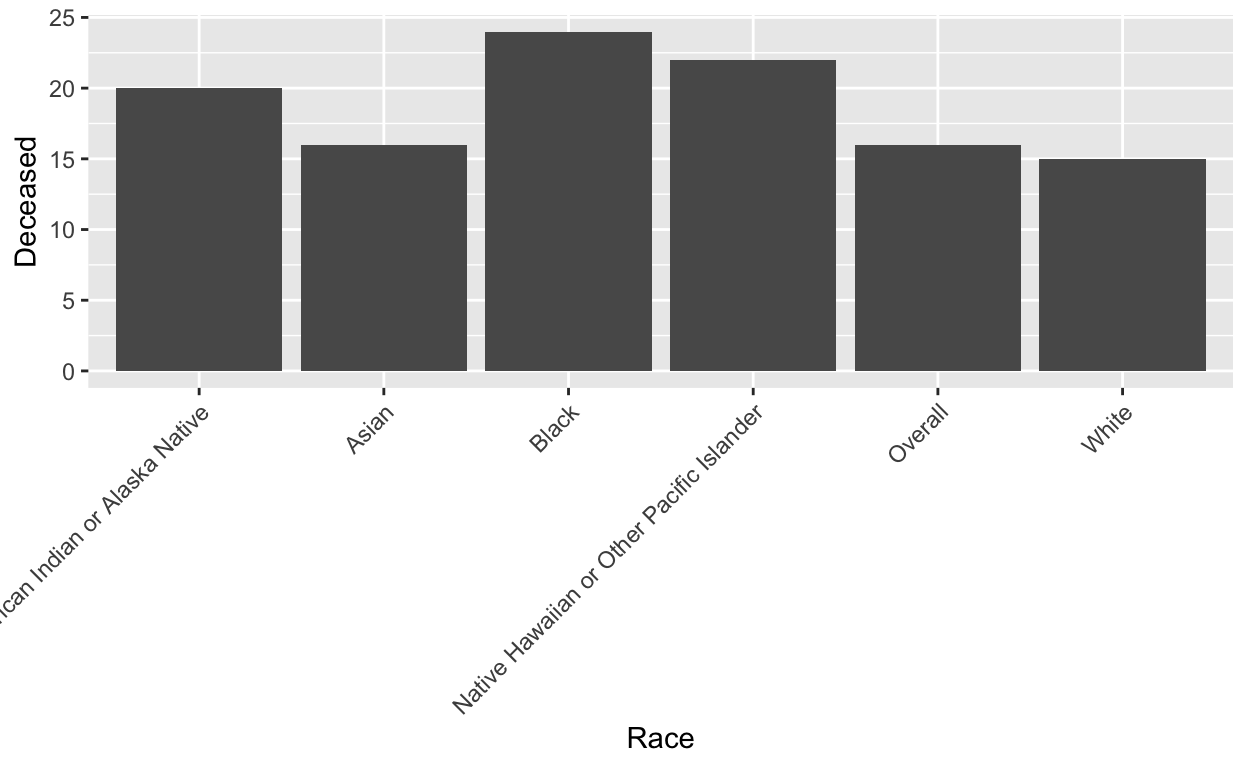
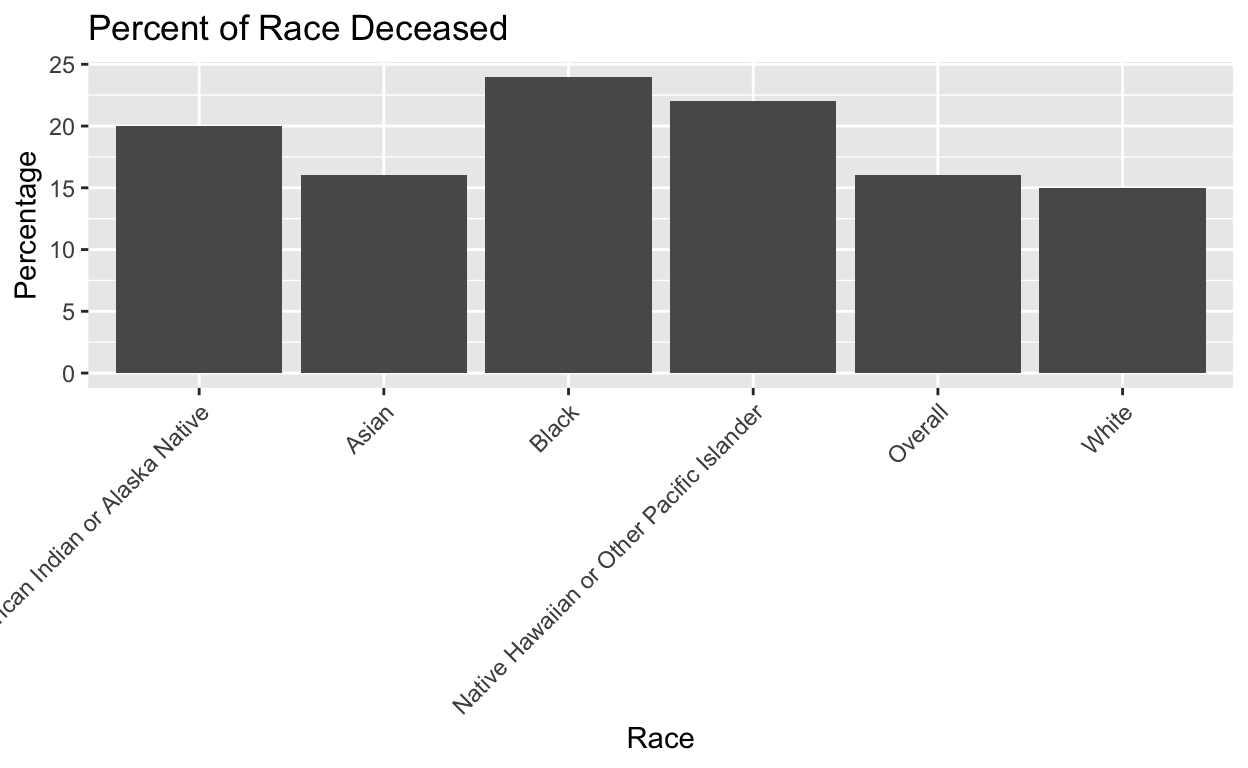
12/14 12:18am

diff --git a/index.html b/index.html
@@ -1546,7 +1546,7 @@ code span.wa { color: #5e5e5e; font-style: italic; } /* Warning */
 <h2 id="introduction">Introduction</h2>
 <p>Race is a complicated issue in the U.S., one that is influenced by a multitude of different factors. Systemic injustices that go back to before the founding of this country continue to influence daily life for people today. Injustices such as slavery, police brutality, Jim Crow laws, redlining, forced indigenous relocation, Japanese internment, colonialism in general and much, much more have a strong power that proves that these horrible acts and events are not simply in the past. In this analysis, a variety of factors will be analyzed to ascertain trends relating to cancer and race. The research question of interest here is how the mortality rate of cancer differs across racial groups. As a hypothesis, it is expected that mortality rates will be higher among those that are nonwhite. A correlation between race and income groups, with nonwhite people having a higher proportion of individuals receiving lower levels of income (to be specified later) as compared to white people, is also expected, as are higher rates of lower education, a lack of insurance, and late-stage diagnoses among nonwhites. This analysis aims to determine shared trends between all of these factors, which are all firmly tied to the history of racism in this country. The information being studied here is important because, upon discerning how mortality rates, and therefore healthcare disparities, are distributed across demographic groups, governments and organizations can more effectively create initiatives to correct these disparities by providing essential healthcare services to those who need it.</p>
 <h2 id="data">Data</h2>
-<p>The following data comes from the paper “Racial Disparities in Cancer Stage at Diagnosis and Survival for Adolescents and Young Adults” by Taparra, Kekumano, et al., published in the National Library of Medicine (<a href="https://pmc.ncbi.nlm.nih.gov/articles/PMC11365006/" class="uri">https://pmc.ncbi.nlm.nih.gov/articles/PMC11365006/</a>) on August 30, 2024. The research question in this study aligns well with the goals of this analysis, as the researchers wanted to understand any relationship between race and two variables: 1) cancer stage at diagnosis and 2) mortality rate. Because of this, the data is very useful in answering the research question being posed here. The data was collected retrospectively from a hospital-based oncology database, which included adolescent and young adult (ages 15-39) patients from all over the U.S., with the goal of creating a statistical analysis, selecting those who received a diagnosis between January 1, 2004 and December 31, 2017.</p>
+<p>The following cross-sectional data comes from the paper “Racial Disparities in Cancer Stage at Diagnosis and Survival for Adolescents and Young Adults” by Taparra, Kekumano, et al., published in the National Library of Medicine (<a href="https://pmc.ncbi.nlm.nih.gov/articles/PMC11365006/" class="uri">https://pmc.ncbi.nlm.nih.gov/articles/PMC11365006/</a>) on August 30, 2024. The research question in this study aligns well with the goals of this analysis, as the researchers wanted to understand any relationship between race and two variables: 1) cancer stage at diagnosis and 2) mortality rate. Because of this, the data is very useful in answering the research question being posed here. The data was collected retrospectively from a hospital-based oncology database, which included adolescent and young adult (ages 15-39) patients from all over the U.S., with the goal of creating a statistical analysis, selecting those who received a diagnosis between January 1, 2004 and December 31, 2017.</p>
 <p>Loading the data sets and packages:</p>
 <div class="layout-chunk" data-layout="l-body">
 <div class="sourceCode">
@@ -1634,7 +1634,8 @@ code span.wa { color: #5e5e5e; font-style: italic; } /* Warning */
 <pre class="sourceCode r"><code class="sourceCode r"><span><span class='va'>finaldata</span> <span class='op'>|&gt;</span></span>
 <span>  <span class='fu'><a href='https://ggplot2.tidyverse.org/reference/ggplot.html'>ggplot</a></span><span class='op'>(</span><span class='fu'><a href='https://ggplot2.tidyverse.org/reference/aes.html'>aes</a></span><span class='op'>(</span>x <span class='op'>=</span> <span class='va'>Race</span>, y <span class='op'>=</span> <span class='va'>`Medicaid or Medicare`</span><span class='op'>)</span><span class='op'>)</span> <span class='op'>+</span></span>
 <span>  <span class='fu'><a href='https://ggplot2.tidyverse.org/reference/geom_bar.html'>geom_bar</a></span><span class='op'>(</span>stat <span class='op'>=</span> <span class='st'>"identity"</span><span class='op'>)</span> <span class='op'>+</span></span>
-<span>  <span class='fu'><a href='https://ggplot2.tidyverse.org/reference/theme.html'>theme</a></span><span class='op'>(</span>axis.text.x <span class='op'>=</span> <span class='fu'><a href='https://ggplot2.tidyverse.org/reference/element.html'>element_text</a></span><span class='op'>(</span>angle <span class='op'>=</span> <span class='fl'>45</span>, hjust <span class='op'>=</span> <span class='fl'>1</span><span class='op'>)</span><span class='op'>)</span></span></code></pre>
+<span>  <span class='fu'><a href='https://ggplot2.tidyverse.org/reference/theme.html'>theme</a></span><span class='op'>(</span>axis.text.x <span class='op'>=</span> <span class='fu'><a href='https://ggplot2.tidyverse.org/reference/element.html'>element_text</a></span><span class='op'>(</span>angle <span class='op'>=</span> <span class='fl'>45</span>, hjust <span class='op'>=</span> <span class='fl'>1</span><span class='op'>)</span><span class='op'>)</span> <span class='op'>+</span></span>
+<span>  <span class='fu'><a href='https://ggplot2.tidyverse.org/reference/labs.html'>labs</a></span><span class='op'>(</span>title <span class='op'>=</span> <span class='st'>"Public Insurance Popularity by Race (Amount)"</span>, y <span class='op'>=</span> <span class='st'>"Medicaid or Medicare (Amount)"</span><span class='op'>)</span></span></code></pre>
 </div>
 <p><img src="index_files/figure-html5/unnamed-chunk-3-1.png" width="624" /></p>
 </div>
@@ -1644,7 +1645,8 @@ code span.wa { color: #5e5e5e; font-style: italic; } /* Warning */
 <pre class="sourceCode r"><code class="sourceCode r"><span><span class='va'>finaldataperc</span> <span class='op'>|&gt;</span></span>
 <span>  <span class='fu'><a href='https://ggplot2.tidyverse.org/reference/ggplot.html'>ggplot</a></span><span class='op'>(</span><span class='fu'><a href='https://ggplot2.tidyverse.org/reference/aes.html'>aes</a></span><span class='op'>(</span>x <span class='op'>=</span> <span class='va'>Race</span>, y <span class='op'>=</span> <span class='va'>`Medicaid or Medicare`</span><span class='op'>)</span><span class='op'>)</span> <span class='op'>+</span></span>
 <span>  <span class='fu'><a href='https://ggplot2.tidyverse.org/reference/geom_bar.html'>geom_bar</a></span><span class='op'>(</span>stat <span class='op'>=</span> <span class='st'>"identity"</span><span class='op'>)</span> <span class='op'>+</span></span>
-<span>  <span class='fu'><a href='https://ggplot2.tidyverse.org/reference/theme.html'>theme</a></span><span class='op'>(</span>axis.text.x <span class='op'>=</span> <span class='fu'><a href='https://ggplot2.tidyverse.org/reference/element.html'>element_text</a></span><span class='op'>(</span>angle <span class='op'>=</span> <span class='fl'>45</span>, hjust <span class='op'>=</span> <span class='fl'>1</span><span class='op'>)</span><span class='op'>)</span></span></code></pre>
+<span>  <span class='fu'><a href='https://ggplot2.tidyverse.org/reference/theme.html'>theme</a></span><span class='op'>(</span>axis.text.x <span class='op'>=</span> <span class='fu'><a href='https://ggplot2.tidyverse.org/reference/element.html'>element_text</a></span><span class='op'>(</span>angle <span class='op'>=</span> <span class='fl'>45</span>, hjust <span class='op'>=</span> <span class='fl'>1</span><span class='op'>)</span><span class='op'>)</span> <span class='op'>+</span></span>
+<span>  <span class='fu'><a href='https://ggplot2.tidyverse.org/reference/labs.html'>labs</a></span><span class='op'>(</span>title <span class='op'>=</span> <span class='st'>"Public Insurance Popularity by Race (%)"</span>, y <span class='op'>=</span> <span class='st'>"Medicaid or Medicare (Percent)"</span><span class='op'>)</span></span></code></pre>
 </div>
 <p><img src="index_files/figure-html5/unnamed-chunk-4-1.png" width="624" /></p>
 </div>
@@ -1733,7 +1735,8 @@ code span.wa { color: #5e5e5e; font-style: italic; } /* Warning */
 <pre class="sourceCode r"><code class="sourceCode r"><span><span class='va'>deceased_graph</span> <span class='op'>&lt;-</span> <span class='va'>finaldataperc</span> <span class='op'>|&gt;</span></span>
 <span>  <span class='fu'><a href='https://ggplot2.tidyverse.org/reference/ggplot.html'>ggplot</a></span><span class='op'>(</span><span class='fu'><a href='https://ggplot2.tidyverse.org/reference/aes.html'>aes</a></span><span class='op'>(</span>x <span class='op'>=</span> <span class='va'>Race</span>, y <span class='op'>=</span> <span class='va'>Deceased</span><span class='op'>)</span><span class='op'>)</span> <span class='op'>+</span> </span>
 <span>  <span class='fu'><a href='https://ggplot2.tidyverse.org/reference/geom_bar.html'>geom_bar</a></span><span class='op'>(</span>stat <span class='op'>=</span> <span class='st'>"identity"</span><span class='op'>)</span> <span class='op'>+</span></span>
-<span>  <span class='fu'><a href='https://ggplot2.tidyverse.org/reference/theme.html'>theme</a></span><span class='op'>(</span>axis.text.x <span class='op'>=</span> <span class='fu'><a href='https://ggplot2.tidyverse.org/reference/element.html'>element_text</a></span><span class='op'>(</span>angle <span class='op'>=</span> <span class='fl'>45</span>, hjust <span class='op'>=</span> <span class='fl'>1</span><span class='op'>)</span><span class='op'>)</span></span>
+<span>  <span class='fu'><a href='https://ggplot2.tidyverse.org/reference/theme.html'>theme</a></span><span class='op'>(</span>axis.text.x <span class='op'>=</span> <span class='fu'><a href='https://ggplot2.tidyverse.org/reference/element.html'>element_text</a></span><span class='op'>(</span>angle <span class='op'>=</span> <span class='fl'>45</span>, hjust <span class='op'>=</span> <span class='fl'>1</span><span class='op'>)</span><span class='op'>)</span> <span class='op'>+</span></span>
+<span>  <span class='fu'><a href='https://ggplot2.tidyverse.org/reference/labs.html'>labs</a></span><span class='op'>(</span>title <span class='op'>=</span> <span class='st'>"Percent of Race Deceased"</span>, y <span class='op'>=</span> <span class='st'>"Percentage"</span><span class='op'>)</span></span>
 <span></span>
 <span><span class='fu'><a href='https://rdrr.io/r/base/print.html'>print</a></span><span class='op'>(</span><span class='va'>deceased_graph</span><span class='op'>)</span></span></code></pre>
 </div>
@@ -1945,7 +1948,7 @@ code span.wa { color: #5e5e5e; font-style: italic; } /* Warning */
 <li><p>The private insurance coefficient is -0.59.</p></li>
 <li><p>The medicaid/medicare coefficient is -0.41.</p></li>
 </ul>
-<p>In context, this means that, if every individual does not have insurance, the mortality rate would be approximately 69.14% of each race. The coefficients refer to the percent change in the mortality rate for every 1% increase in the population of people who have the corresponding insurance type, with the other type being held constant. For every 1% increase in the amount of people who have private insurance, the mortality rate falls by 0.59%. For a similar increase in the medicaid/medicare (government-sponsored healthcare) population, the mortality rate falls by 0.41%. Initially, it appears to indicate that private insurance reduces mortality rate to a greater extent than public insurance. However, while the standard errors are low (0.9 for private insurance, 0.95 for public), the R-squared is also quite low, at 0.55. This indicates that the observed data does not closely match the regression model’s prediction. It is notable that this may be largely due to the scarcity of data in this data set. The nature of this data set means that information on the individuals included in the study are not visible, only the summaries by race; if the individuals were visible, perhaps the data would more closely align with the model. Additionally, the p-values of 0.56 for private insurance and 0.7 for public are high and not statistically significant (a p-value would need to be under 0.05 or 0.1 to qualify as such, depending on the chosen level). Due to this, the accuracy of the model is called into question; if the p-values were significant, we would reject the null hypothesis, that there is no relationship between insurance type and mortality rate. However, because the p-values are not statistically significant, we fail to reject this null hypothesis. The model supports the notion that there is no relationship between type of insurance and mortality rate, and, because the p-value of the intercept (0.48) is also very high, we cannot reject the null hypothesis there, that the intercept is different from zero (meaning the mortality rate is 0) when no members of a given race have insurance. However, because simple logic indicates that not having health insurance would be an impediment to receiving live-saving cancer treatment, it is likely that the lack of detail in the data set altered the results of the regression.</p>
+<p>In context, this means that, if every individual does not have insurance, the mortality rate would be approximately 69.14% of each race. The coefficients refer to the percent change in the mortality rate for every 1% increase in the population of people who have the corresponding insurance type, with the other type being held constant. For every 1% increase in the amount of people who have private insurance, the mortality rate falls by 0.59%. For a similar increase in the medicaid/medicare (government-sponsored healthcare) population, the mortality rate falls by 0.41%. Initially, it appears to indicate that private insurance reduces mortality rate to a greater extent than public insurance. However, while the standard errors are low (0.9 for private insurance, 0.95 for public), the R-squared is also quite low, at 0.55. This indicates that the observed data does not closely match the regression model’s prediction. It is notable that this may be largely due to the scarcity of data in this data set. The nature of this data set means that information on the individuals included in the study are not visible, only the summaries by race; if the individuals were visible, perhaps the data would more closely align with the model. Additionally, the p-values of 0.56 for private insurance and 0.7 for public are high and not statistically significant (a p-value would need to be under 0.05 or 0.1 to qualify as such, depending on the chosen level). Due to this, the accuracy of the model is called into question; if the p-values were significant, we would reject the null hypothesis, that there is no relationship between insurance type and mortality rate. However, because the p-values are not statistically significant, we fail to reject this null hypothesis. The model supports the notion that there is no relationship between type of insurance and mortality rate, and, because the p-value of the intercept (0.48) is also very high, we cannot reject the null hypothesis there, that the intercept is different from zero (meaning the mortality rate is 0) when no members of a given race have insurance. However, because simple logic indicates that not having health insurance would be an impediment to receiving live-saving cancer treatment, it is likely that the lack of detail in the data set altered the results of the regression. The high p-values notwithstanding, I believe the coefficients to represent a causal effect, to the extent that having some form of healthcare will increase an individual’s chances of surviving cancer. However, as stated above, any differences between the two types of insurance identified here are inconclusive.</p>
 <p>Now, the relationship between insurance status and race:</p>
 <div class="layout-chunk" data-layout="l-body">
 <div class="sourceCode">
